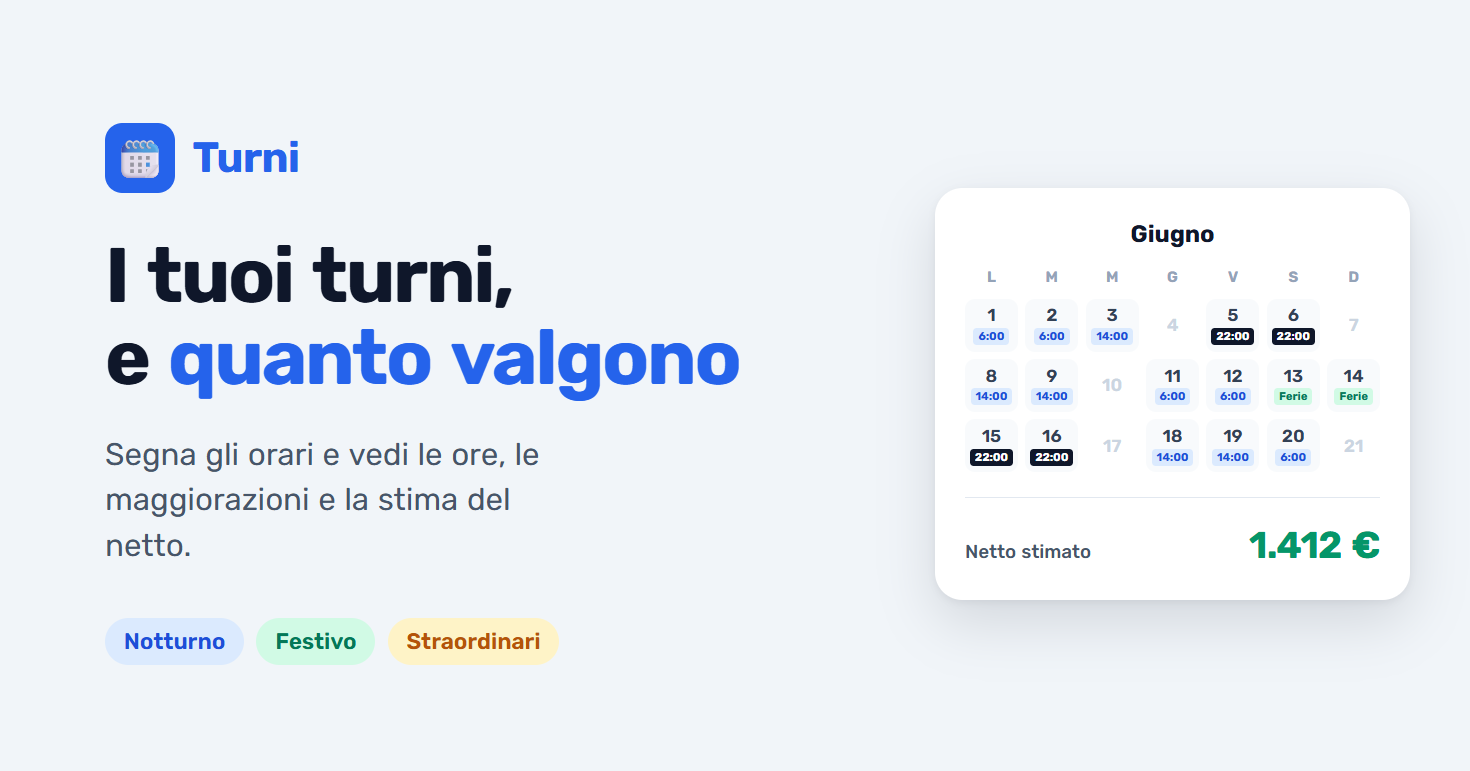
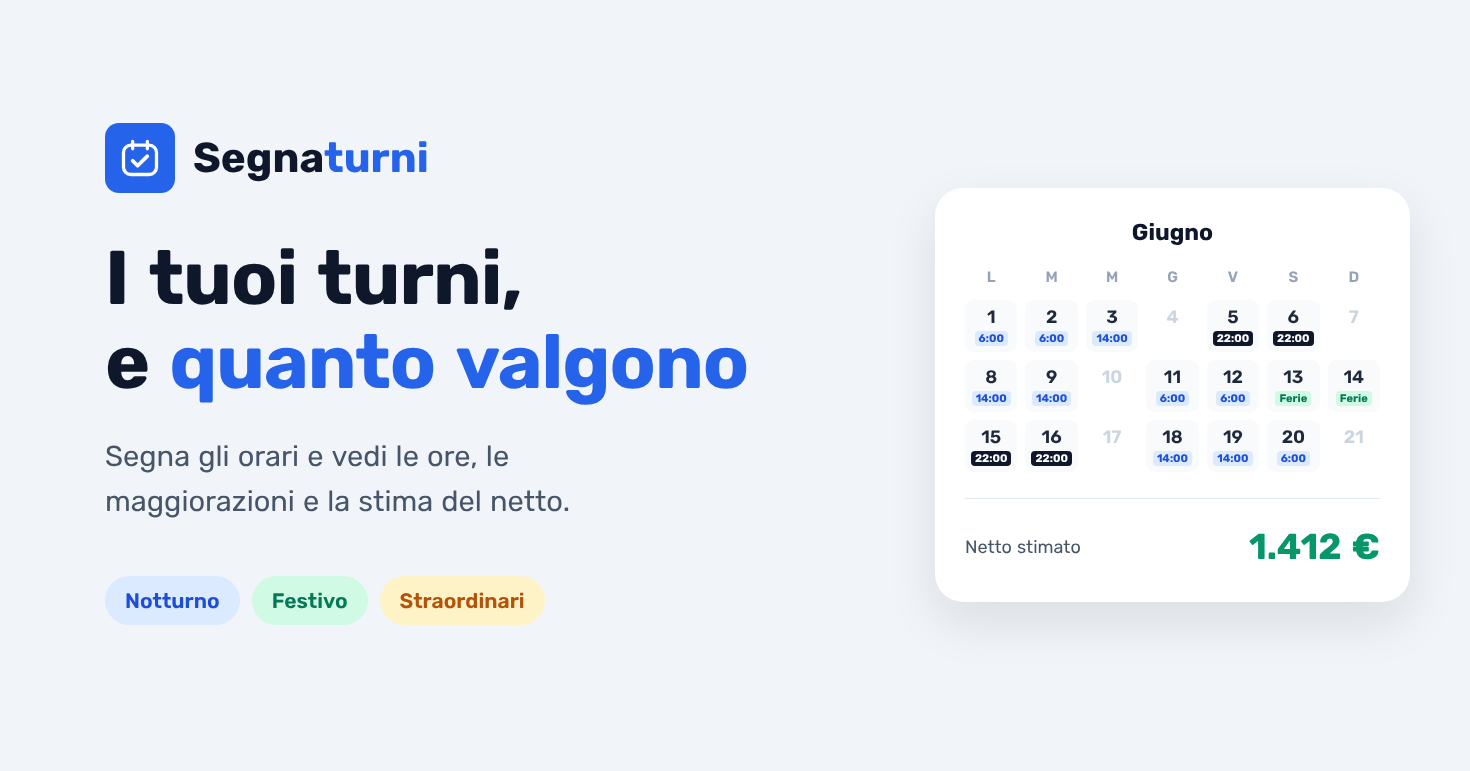
Il nome pubblico diventa Segnaturni
Cambia tutto ciò che si legge: titolo e manifest (nome e nome breve
dell'icona), barra in alto, invito a installare, avviso di aggiornamento,
testo condiviso della settimana, messaggi del ripristino del backup, testo
di «Confronta con la busta», informativa e termini (rigenerati dai .md),
la vetrina /benvenuto e l'immagine d'anteprima dei link, rifatta alla
stessa misura. «Turni» resta dove è la parola (turni di lavoro) e nel
codice: repository, identificatori e chiavi del localStorage (turni_…),
che cambiate farebbero perdere i dati a chi usa già l'app.

Claude-Session: https://claude.ai/code/session_01BrKz16xDWUAVbTbnAUnyoZ

diff --git a/public/privacy/index.html b/public/privacy/index.html
@@ -3,7 +3,7 @@
 <head>
 <meta charset="utf-8">
 <meta name="viewport" content="width=device-width, initial-scale=1">
-<title>Informativa sulla privacy — Turni</title>
+<title>Informativa sulla privacy — Segnaturni</title>
 <meta name="description" content="Quali dati escono dal tuo dispositivo usando Turni, dove vanno e perche.">
 <style>
   :root { color-scheme: light dark; --testo:#1f2933; --sfondo:#fff; --tenue:#5b6570;
@@ -37,40 +37,40 @@
 </head>
 <body>
 <main>
-<a class="torna" href="/">← Torna a Turni</a>
-<h1>Informativa sulla privacy — Turni</h1>
+<a class="torna" href="/">← Torna a Segnaturni</a>
+<h1>Informativa sulla privacy — Segnaturni</h1>
 <p><strong>Ultimo aggiornamento:</strong> 19 ottobre 2026</p>
-<p>Turni serve a tenere traccia dei propri turni di lavoro e a stimare quanto si guadagna. Questa informativa dice quali dati escono dal tuo dispositivo, dove vanno e perché. È scritta per essere letta, non per essere firmata: non c'è niente da accettare.</p>
+<p>Segnaturni serve a tenere traccia dei propri turni di lavoro e a stimare quanto si guadagna. Questa informativa dice quali dati escono dal tuo dispositivo, dove vanno e perché. È scritta per essere letta, non per essere firmata: non c'è niente da accettare.</p>
 <p>Vale per il sito turni-9vr.pages.dev e per il sito di prova, anche quando li installi come app. Le condizioni d'uso sono in una pagina a parte: <a href="/termini/" rel="noopener">Termini d'uso</a>.</p>
 <h2>In breve</h2>
 <p><strong>I tuoi turni non stanno su nessun server.</strong> Non c'è un account da creare, non c'è una sincronizzazione, e chi sviluppa l'app non può vedere i tuoi dati nemmeno volendo.</p>
 <p>Dal dispositivo escono solo i dati tecnici che servono a qualunque sito per essere aperto (l'indirizzo IP, il tipo di browser) e un conteggio anonimo delle visite. Turni, orari, paga, contratto, calcoli e le immagini dei tabelloni restano dove li hai messi.</p>
 <h2>Chi è il titolare</h2>
-<p>Il titolare del trattamento è <strong>Alessandro Torreggiani</strong>, che sviluppa e pubblica Turni a titolo personale e gratuito. Contatto: <strong>g.asriel@gmail.com</strong>.</p>
+<p>Il titolare del trattamento è <strong>Alessandro Torreggiani</strong>, che sviluppa e pubblica Segnaturni a titolo personale e gratuito. Contatto: <strong>g.asriel@gmail.com</strong>.</p>
 <h2>Dati che restano sul tuo dispositivo</h2>
 <p>Turni, orari, paga oraria, dati del contratto e tutto ciò che serve alla stima del netto sono salvati <strong>solo nella memoria locale del browser o dell'app</strong>. Il titolare non li riceve e non li tratta.</p>
 <p>Questo ha un rovescio che è giusto conoscere: se cancelli i dati del sito, disinstalli l'app, o svuoti la memoria del browser, <strong>i tuoi turni spariscono e non sono recuperabili da nessuna parte</strong>. Non esiste una copia altrove. Per questo c'è la funzione di backup in Impostazioni: il file che produce resta a te, non viene inviato da nessuna parte.</p>
 <h2>Turni letti da un'immagine</h2>
-<p>L'immagine del tabellone che scegli o condividi con Turni <strong>si legge sul telefono</strong>: non viene inviata a nessun servizio. Il programma che la legge si scarica la prima volta che usi la funzione, dal sito di Turni stesso e non da servizi esterni, e resta nella memoria del telefono.</p>
-<p>Se il tabellone contiene i nomi dei colleghi, Turni li legge sul telefono solo per mostrarti l'elenco da cui scegliere il tuo, poi legge soltanto la tua riga. L'immagine non viene conservata: un'immagine condivisa con l'app viene cancellata appena letta.</p>
+<p>L'immagine del tabellone che scegli o condividi con Segnaturni <strong>si legge sul telefono</strong>: non viene inviata a nessun servizio. Il programma che la legge si scarica la prima volta che usi la funzione, dal sito di Segnaturni stesso e non da servizi esterni, e resta nella memoria del telefono.</p>
+<p>Se il tabellone contiene i nomi dei colleghi, Segnaturni li legge sul telefono solo per mostrarti l'elenco da cui scegliere il tuo, poi legge soltanto la tua riga. L'immagine non viene conservata: un'immagine condivisa con l'app viene cancellata appena letta.</p>
 <h2>Lettura con l'intelligenza artificiale (spenta)</h2>
-<p>Nel codice di Turni esiste anche una lettura delle foto con Google Gemini, che manda la foto e il nome da cercare a un servizio esterno. <strong>Oggi è spenta.</strong> Se dovesse tornare attiva, questa informativa verrà aggiornata prima, e la prima volta che la usi un avviso ti dirà, prima dell'invio, che la foto esce dall'Unione Europea, che sul piano gratuito Google può usarla per migliorare i suoi servizi, e che con la foto partono anche i nomi dei colleghi scritti sul foglio.</p>
+<p>Nel codice di Segnaturni esiste anche una lettura delle foto con Google Gemini, che manda la foto e il nome da cercare a un servizio esterno. <strong>Oggi è spenta.</strong> Se dovesse tornare attiva, questa informativa verrà aggiornata prima, e la prima volta che la usi un avviso ti dirà, prima dell'invio, che la foto esce dall'Unione Europea, che sul piano gratuito Google può usarla per migliorare i suoi servizi, e che con la foto partono anche i nomi dei colleghi scritti sul foglio.</p>
 <h2>Servizi coinvolti</h2>
 <div class="tabella"><table><thead><tr><th>Chi</th><th>Perché</th><th>Cosa vede</th><th>Base giuridica</th></tr></thead><tbody><tr><td><strong>Cloudflare</strong> (Pages)</td><td>ospita il sito e lo protegge dagli abusi</td><td>l'indirizzo IP e i dati tecnici della richiesta, come per qualunque sito</td><td>legittimo interesse a far funzionare il sito in sicurezza (art. 6.1.f GDPR)</td></tr><tr><td><strong>Cloudflare Web Analytics</strong></td><td>conteggio delle visite</td><td>pagina visitata e dati aggregati, <strong>senza cookie e senza profilazione</strong></td><td>legittimo interesse a sapere se il sito viene usato (art. 6.1.f GDPR)</td></tr></tbody></table></div>
 <p>Cloudflare tratta questi dati per conto del titolare, secondo le sue condizioni: <a href="https://www.cloudflare.com/privacypolicy/" rel="noopener">https://www.cloudflare.com/privacypolicy/</a></p>
 <h2>Cookie e memoria del browser</h2>
-<p>Turni <strong>non usa cookie</strong>, né di profilazione né pubblicitari. Usa soltanto la memoria locale del browser (dove stanno i tuoi dati) e la cache dell'app (che la fa funzionare anche senza rete). Sono strumenti tecnici strettamente necessari, per i quali la legge non chiede consenso (art. 122 del Codice privacy): per questo non c'è nessun banner.</p>
+<p>Segnaturni <strong>non usa cookie</strong>, né di profilazione né pubblicitari. Usa soltanto la memoria locale del browser (dove stanno i tuoi dati) e la cache dell'app (che la fa funzionare anche senza rete). Sono strumenti tecnici strettamente necessari, per i quali la legge non chiede consenso (art. 122 del Codice privacy): per questo non c'è nessun banner.</p>
 <h2>Statistiche d'uso</h2>
 <p><strong>Non ne viene raccolta nessuna.</strong> Non c'è un contatore di quante volte usi una funzione, né un identificativo della tua installazione. Il codice che lo faceva nelle versioni di prova è stato tolto il 12 ottobre 2026.</p>
 <h2>Verificalo da solo</h2>
-<p>Non serve fidarsi di quello che scriviamo. Il tuo browser riceve da Turni una regola che dice <strong>a quali indirizzi la pagina può mandare dati</strong>, e la fa rispettare lui: un invio verso un indirizzo che non è in lista viene bloccato, qualunque cosa faccia il codice.</p>
+<p>Non serve fidarsi di quello che scriviamo. Il tuo browser riceve da Segnaturni una regola che dice <strong>a quali indirizzi la pagina può mandare dati</strong>, e la fa rispettare lui: un invio verso un indirizzo che non è in lista viene bloccato, qualunque cosa faccia il codice.</p>
 <h3>Il controllo rapido, da qui</h3>
 <p>Apri il <a href="https://securityheaders.com/?q=turni-9vr.pages.dev&amp;followRedirects=on" rel="noopener">controllo indipendente su securityheaders.com</a>: non è un sito nostro, legge le regole da fuori. Nella pagina che si apre cerca la riga <code>connect-src</code> dentro <code>Content-Security-Policy</code>. Gli indirizzi elencati lì sono tutti e soli quelli possibili:</p>
 <div class="tabella"><table><thead><tr><th>Indirizzo</th><th>A cosa serve</th></tr></thead><tbody><tr><td><code>'self'</code></td><td>il sito stesso: gli aggiornamenti dell'app</td></tr><tr><td><code>cloudflareinsights.com</code></td><td>il conteggio delle visite, senza cookie: nessun turno, nessuna cifra</td></tr></tbody></table></div>
 <p>Cosa prova e cosa no: dice dove i dati <strong>possono</strong> andare. Che al contatore visite non arrivino i tuoi turni lo dice il codice dell'app.</p>
 <h3>La prova completa, su Android</h3>
 <p>Per vedere coi tuoi occhi ogni collegamento c'è <strong>PCAPdroid</strong>, un'app gratuita e open source (F-Droid, Play Store); non serve il root.</p>
-<ul><li>Installala e premi <strong>Avvia</strong>, scegliendo il browser che usi per Turni.</li><li>Apri Turni e usalo: segna un turno, guarda il netto, esporta il mese.</li><li>Torna su PCAPdroid, scheda <strong>Connessioni</strong>: trovi solo gli indirizzi della tabella qui sopra.</li></ul>
+<ul><li>Installala e premi <strong>Avvia</strong>, scegliendo il browser che usi per Segnaturni.</li><li>Apri Segnaturni e usalo: segna un turno, guarda il netto, esporta il mese.</li><li>Torna su PCAPdroid, scheda <strong>Connessioni</strong>: trovi solo gli indirizzi della tabella qui sopra.</li></ul>
 <p>Il browser mostra anche le connessioni delle altre schede aperte: chiudile prima di provare.</p>
 <p>Per chi sviluppa: lo stesso elenco è tenuto fermo da <code>scripts/check-dati-in-uscita.mjs</code>, che fa fallire la pubblicazione se qualcuno lo allarga.</p>
 <h2>Dati che non vengono raccolti</h2>

diff --git a/public/termini/index.html b/public/termini/index.html
@@ -3,7 +3,7 @@
 <head>
 <meta charset="utf-8">
 <meta name="viewport" content="width=device-width, initial-scale=1">
-<title>Termini d'uso — Turni</title>
+<title>Termini d'uso — Segnaturni</title>
 <meta name="description" content="Cos'e Turni, cosa aspettarsi dalle sue stime e cosa no.">
 <style>
   :root { color-scheme: light dark; --testo:#1f2933; --sfondo:#fff; --tenue:#5b6570;
@@ -37,23 +37,23 @@
 </head>
 <body>
 <main>
-<a class="torna" href="/">← Torna a Turni</a>
-<h1>Termini d'uso — Turni</h1>
+<a class="torna" href="/">← Torna a Segnaturni</a>
+<h1>Termini d'uso — Segnaturni</h1>
 <p><strong>Ultimo aggiornamento:</strong> 19 ottobre 2026</p>
-<p>Questi termini dicono cos'è Turni, cosa puoi aspettarti e cosa no. Non c'è niente da firmare né da accettare con un clic: valgono per chi usa l'app, e sono scritti per essere letti.</p>
-<h2>Cos'è Turni</h2>
-<p>Turni è un'app gratuita per segnare i propri turni di lavoro e stimare quanto si guadagna: ore, maggiorazioni, lordo e netto secondo le regole della busta paga italiana. La sviluppa e la pubblica <strong>Alessandro Torreggiani</strong>, a titolo personale e senza scopo di lucro. Contatto: <strong>g.asriel@gmail.com</strong>.</p>
+<p>Questi termini dicono cos'è Segnaturni, cosa puoi aspettarti e cosa no. Non c'è niente da firmare né da accettare con un clic: valgono per chi usa l'app, e sono scritti per essere letti.</p>
+<h2>Cos'è Segnaturni</h2>
+<p>Segnaturni è un'app gratuita per segnare i propri turni di lavoro e stimare quanto si guadagna: ore, maggiorazioni, lordo e netto secondo le regole della busta paga italiana. La sviluppa e la pubblica <strong>Alessandro Torreggiani</strong>, a titolo personale e senza scopo di lucro. Contatto: <strong>g.asriel@gmail.com</strong>.</p>
 <p>È in <strong>versione di prova (beta)</strong>: viene offerta così com'è, può contenere errori e può cambiare, fermarsi o non essere disponibile senza preavviso.</p>
 <h2>Le cifre sono stime</h2>
 <p>Ore, maggiorazioni, lordo, netto, trattamento integrativo, conguaglio e ogni altra cifra che l'app mostra sono <strong>stime indicative</strong>, calcolate dai dati che inserisci tu e da regole contrattuali e fiscali che l'app conosce in modo parziale. Possono essere diverse dalla tua busta paga, ad esempio perché:</p>
 <ul><li>un turno o un'impostazione è stato inserito in modo diverso dalla realtà;</li><li>il tuo contratto, il tuo datore o il suo programma paghe applicano regole che l'app non conosce;</li><li>le norme cambiano, o l'app contiene un errore.</li></ul>
-<p>Turni <strong>non è una consulenza</strong> del lavoro, fiscale o legale, e non sostituisce la busta paga, la Certificazione Unica né un professionista (consulente del lavoro, CAF, sindacato). Prima di contestare qualcosa al datore di lavoro o di prendere decisioni che contano, fai verificare i conti a chi è abilitato a farlo.</p>
+<p>Segnaturni <strong>non è una consulenza</strong> del lavoro, fiscale o legale, e non sostituisce la busta paga, la Certificazione Unica né un professionista (consulente del lavoro, CAF, sindacato). Prima di contestare qualcosa al datore di lavoro o di prendere decisioni che contano, fai verificare i conti a chi è abilitato a farlo.</p>
 <h2>I tuoi dati sono tuoi</h2>
-<p>Turni salva tutto <strong>solo sul tuo dispositivo</strong>, come spiega <a href="/privacy/" rel="noopener">l'informativa sulla privacy</a>. La conseguenza è che conservarli è compito tuo: se cancelli i dati del sito, disinstalli l'app o perdi il telefono, i turni non si recuperano. Per questo c'è il backup in Impostazioni.</p>
+<p>Segnaturni salva tutto <strong>solo sul tuo dispositivo</strong>, come spiega <a href="/privacy/" rel="noopener">l'informativa sulla privacy</a>. La conseguenza è che conservarli è compito tuo: se cancelli i dati del sito, disinstalli l'app o perdi il telefono, i turni non si recuperano. Per questo c'è il backup in Impostazioni.</p>
 <h2>Uso personale</h2>
-<p>Turni serve a segnare <strong>i tuoi</strong> turni. Se leggi un tabellone con i nomi dei colleghi, l'app lo legge sul telefono e ne tiene solo la tua riga; non usarla per raccogliere o diffondere i dati degli altri.</p>
+<p>Segnaturni serve a segnare <strong>i tuoi</strong> turni. Se leggi un tabellone con i nomi dei colleghi, l'app lo legge sul telefono e ne tiene solo la tua riga; non usarla per raccogliere o diffondere i dati degli altri.</p>
 <h2>Responsabilità</h2>
-<p>Nei limiti consentiti dalla legge, chi sviluppa Turni non risponde delle conseguenze di decisioni prese sulla base delle stime dell'app, né della perdita di dati salvati sul dispositivo. Restano in ogni caso salvi la responsabilità per dolo o colpa grave e i diritti che la legge riconosce ai consumatori, che questi termini non limitano.</p>
+<p>Nei limiti consentiti dalla legge, chi sviluppa Segnaturni non risponde delle conseguenze di decisioni prese sulla base delle stime dell'app, né della perdita di dati salvati sul dispositivo. Restano in ogni caso salvi la responsabilità per dolo o colpa grave e i diritti che la legge riconosce ai consumatori, che questi termini non limitano.</p>
 <h2>Modifiche</h2>
 <p>I termini possono cambiare insieme all'app. Le modifiche vengono pubblicate a questo stesso indirizzo, con la data di aggiornamento in cima.</p>
 <h2>Legge applicabile</h2>

diff --git a/public/benvenuto/index.html b/public/benvenuto/index.html
@@ -4,7 +4,7 @@
      script nostro, frasi.js, che fa girare la prima riga del titolo. «Mi interessa» porta a /benvenuto/grazie/, che il contatore
      visite conta come pagina: è tutta la misura dell'interesse, senza un dato
      in più. Lo screenshot è l'app vera, con turni inventati. -->
-<title>Turni — quanto hai guadagnato questo mese</title>
+<title>Segnaturni — quanto hai guadagnato questo mese</title>
 <meta name="description" content="Segni i turni e vedi quanto hai guadagnato, lordo e netto. Nessun account, nessun server: i dati restano sul tuo telefono.">
 <meta name="robots" content="noindex">
 <script src="/benvenuto/frasi.js"></script>
@@ -105,13 +105,13 @@ footer .w{display:flex;justify-content:space-between;gap:16px;flex-wrap:wrap}
 
 <div class="testa">
 <header><div class="w">
-  <a class="marchio" href="/benvenuto/"><svg width="26" height="26" viewBox="0 0 24 24" aria-hidden="true"><rect x="2" y="4" width="20" height="18" rx="5" fill="#2c5fe8"/><path d="M7 2.5v4M17 2.5v4" stroke="#2c5fe8" stroke-width="1.8" stroke-linecap="round"/><path d="M7.5 13.5l3 3 6-6" fill="none" stroke="#fff" stroke-width="2" stroke-linecap="round" stroke-linejoin="round"/></svg>Turni</a>
+  <a class="marchio" href="/benvenuto/"><svg width="26" height="26" viewBox="0 0 24 24" aria-hidden="true"><rect x="2" y="4" width="20" height="18" rx="5" fill="#2c5fe8"/><path d="M7 2.5v4M17 2.5v4" stroke="#2c5fe8" stroke-width="1.8" stroke-linecap="round"/><path d="M7.5 13.5l3 3 6-6" fill="none" stroke="#fff" stroke-width="2" stroke-linecap="round" stroke-linejoin="round"/></svg><span>Segna<b style="color:#2c5fe8;font-weight:800">turni</b></span></a>
   <a class="app" href="/">Apri l'app →</a>
 </div></header>
 <div class="apertura"><div class="w">
   <div>
     <h1><span class="frase" data-frase>Sei ore di domenica.</span>Quanto ti entra in busta?</h1>
-    <p>Segni il turno e lo sai subito: supplementari, domeniche, festivi, notturno, fino al netto. Turni fa i conti come la tua busta paga, e tutto resta sul tuo telefono.</p>
+    <p>Segni il turno e lo sai subito: supplementari, domeniche, festivi, notturno, fino al netto. Segnaturni fa i conti come la tua busta paga, e tutto resta sul tuo telefono.</p>
     <a class="btn" href="/">Apri l'app, è gratis</a>
     <div class="punti">
       <span><svg width="18" height="18" viewBox="0 0 24 24" aria-hidden="true"><rect x="5" y="10" width="14" height="10" rx="2.5" fill="none" stroke="currentColor" stroke-width="2"/><path d="M8 10V7.5a4 4 0 018 0V10" fill="none" stroke="currentColor" stroke-width="2"/></svg>Nessun account</span>
@@ -119,14 +119,14 @@ footer .w{display:flex;justify-content:space-between;gap:16px;flex-wrap:wrap}
       <span><svg width="18" height="18" viewBox="0 0 24 24" aria-hidden="true"><circle cx="12" cy="12" r="9" fill="none" stroke="currentColor" stroke-width="2"/><path d="M8 12.5l2.7 2.7L16 10" fill="none" stroke="currentColor" stroke-width="2" stroke-linecap="round" stroke-linejoin="round"/></svg>Gratis</span>
     </div>
   </div>
-  <div class="telefono"><img src="/benvenuto/calendario.jpg" width="780" height="1600" alt="Il calendario di Turni a novembre: i turni del mese e in alto il lordo stimato, 1.400,22 €"></div>
+  <div class="telefono"><img src="/benvenuto/calendario.jpg" width="780" height="1600" alt="Il calendario di Segnaturni a novembre: i turni del mese e in alto il lordo stimato, 1.400,22 €"></div>
 </div></div>
 </div>
 
 <section class="priv"><div class="w">
   <div>
     <h2>I tuoi turni non escono dal telefono.</h2>
-    <p class="sub">Turni non ha un database dove finiscono i tuoi dati: i conti si fanno sul telefono, e lì restano. Chi sa usare gli strumenti del browser può controllarlo: segnando un turno non parte niente.</p>
+    <p class="sub">Segnaturni non ha un database dove finiscono i tuoi dati: i conti si fanno sul telefono, e lì restano. Chi sa usare gli strumenti del browser può controllarlo: segnando un turno non parte niente.</p>
   </div>
   <div class="voci">
     <div class="voce"><svg width="26" height="26" viewBox="0 0 24 24" aria-hidden="true"><circle cx="12" cy="8.5" r="3.5" fill="none" stroke="#2c5fe8" stroke-width="2"/><path d="M5 20c1-3.5 3.8-5 7-5s6 1.5 7 5" fill="none" stroke="#2c5fe8" stroke-width="2" stroke-linecap="round"/><path d="M3.5 3.5l17 17" stroke="#2c5fe8" stroke-width="2" stroke-linecap="round"/></svg><div><b>Nessun account</b><span>Né email né password. Apri e usi.</span></div></div>
@@ -173,7 +173,7 @@ footer .w{display:flex;justify-content:space-between;gap:16px;flex-wrap:wrap}
 </div></section>
 
 <footer><div class="w">
-  <div>Turni · gratuito, senza scopo di lucro. Stime beta: fatti controllare da un professionista.</div>
+  <div>Segnaturni · gratuito, senza scopo di lucro. Stime beta: fatti controllare da un professionista.</div>
   <div><a href="/privacy/">Informativa</a> · <a href="/termini/">Termini</a></div>
 </div></footer>
 

diff --git a/index.html b/index.html
@@ -3,8 +3,8 @@
   <head>
     <meta charset="UTF-8" />
     <meta name="viewport" content="width=device-width, initial-scale=1.0, viewport-fit=cover" />
-    <title>Turni</title>
-    <meta name="description" content="Turni di lavoro: calendario, ore e stima dello stipendio netto." />
+    <title>Segnaturni</title>
+    <meta name="description" content="Segnaturni: segni i turni di lavoro e vedi ore, lordo e stima dello stipendio netto." />
     <meta name="theme-color" content="#2563eb" />
 
     <!-- Anteprima del link su WhatsApp, Telegram e simili. Senza, un link
@@ -22,8 +22,8 @@
          in un file che viene distribuito su più ambienti è sempre sbagliato in
          tutti tranne uno. -->
     <meta property="og:type" content="website" />
-    <meta property="og:site_name" content="Turni" />
-    <meta property="og:title" content="Turni — calendario e stipendio netto" />
+    <meta property="og:site_name" content="Segnaturni" />
+    <meta property="og:title" content="Segnaturni — calendario dei turni e stipendio netto" />
     <meta property="og:description" content="Segna i turni, conta le ore e stima lo stipendio netto: maggiorazioni notturne, festive e domenicali comprese." />
     <meta property="og:image" content="__SITE_URL__/og-image.png" />
     <!-- `secure_url` e `type` non sono decorazioni: alcuni client li pretendono
@@ -33,7 +33,7 @@
     <meta property="og:image:type" content="image/png" />
     <meta property="og:image:width" content="1470" />
     <meta property="og:image:height" content="771" />
-    <meta property="og:image:alt" content="Turni — calendario dei turni e stima dello stipendio netto" />
+    <meta property="og:image:alt" content="Segnaturni — calendario dei turni e stima dello stipendio netto" />
     <meta property="og:url" content="__SITE_URL__" />
     <meta property="og:locale" content="it_IT" />
     <meta name="twitter:card" content="summary_large_image" />
@@ -43,7 +43,7 @@
     <link rel="apple-touch-icon" href="/apple-touch-icon.png" />
     <meta name="apple-mobile-web-app-capable" content="yes" />
     <meta name="apple-mobile-web-app-status-bar-style" content="default" />
-    <meta name="apple-mobile-web-app-title" content="Turni" />
+    <meta name="apple-mobile-web-app-title" content="Segnaturni" />
   </head>
   <body>
     <div id="root"></div>

diff --git a/src/components/InstallPrompt.jsx b/src/components/InstallPrompt.jsx
@@ -81,7 +81,7 @@ export default function InstallPrompt({ installaIOS = false, sospeso = false, on
       <div className="install-banner install-banner--ios" role="status">
         <img className="install-banner-icon" src="/pwa-192x192.png" alt="" width="40" height="40" />
         <div className="install-banner-text">
-          <strong>Aggiungi Turni alla Home</strong>
+          <strong>Aggiungi Segnaturni alla Home</strong>
           <span>
             Su iPhone, se resta solo in Safari, dopo 7 giorni senza aprirla Safari può
             cancellare i tuoi turni. Tocca <span aria-label="Condividi">Condividi ⬆</span>
@@ -124,7 +124,7 @@ export default function InstallPrompt({ installaIOS = false, sospeso = false, on
     <div className="install-banner">
       <img className="install-banner-icon" src="/pwa-192x192.png" alt="" width="40" height="40" />
       <div className="install-banner-text">
-        <strong>Installa Turni</strong>
+        <strong>Installa Segnaturni</strong>
         {firefoxHint ? (
           <span>Tocca il menu ⋮ in alto e poi «Aggiungi a schermata Home» (o «Installa»).</span>
         ) : firefoxDesktopHint ? (

diff --git a/vite.config.js b/vite.config.js
@@ -82,9 +82,9 @@ export default defineConfig({
       },
       includeAssets: ['favicon.svg', 'apple-touch-icon.png'],
       manifest: {
-        name: 'Turni',
-        short_name: 'Turni',
-        description: 'Turni di lavoro: calendario, ore e stima dello stipendio netto.',
+        name: 'Segnaturni',
+        short_name: 'Segnaturni',
+        description: 'Segni i turni di lavoro e vedi ore, lordo e stima dello stipendio netto.',
         lang: 'it',
         theme_color: '#2563eb',
         background_color: '#f1f5f9',
@@ -107,7 +107,7 @@ export default defineConfig({
         // Apre il modulo, NON salva niente: un turno scritto senza che nessuno
         // lo veda è un dato che tocca i soldi senza uno sguardo.
         //
-        // «Condividi → Turni» da WhatsApp, Galleria, Lens: testo o immagine
+        // «Condividi → Segnaturni» da WhatsApp, Galleria, Lens: testo o immagine
         // arrivano a «Incolla turni» (ImportTesto.jsx) e si leggono sul
         // telefono. POST perché un'immagine in un indirizzo non ci sta: la
         // riceve public/condividi-sw.js. Solo Android con l'app installata;

diff --git a/src/utils/backup-contenuto.js b/src/utils/backup-contenuto.js
@@ -119,7 +119,7 @@ export function controllaBusta(dati) {
     return 'Il file non contiene un backup valido.';
   }
   if (dati.app !== APP_TAG) {
-    return 'Questo file non è un backup di Turni.';
+    return 'Questo file non è un backup di Segnaturni.';
   }
   // `undefined > 1` è false: senza questa riga un file senza `formato` passava
   // e veniva letto come formato 1.
@@ -127,7 +127,7 @@ export function controllaBusta(dati) {
     return 'Il backup è danneggiato: manca il numero di formato.';
   }
   if (dati.formato > FORMATO) {
-    return `Backup creato da una versione più recente dell'app (formato ${dati.formato}). Aggiorna Turni e riprova.`;
+    return `Backup creato da una versione più recente dell'app (formato ${dati.formato}). Aggiorna Segnaturni e riprova.`;
   }
   if (typeof dati.turni !== 'object' || dati.turni === null || Array.isArray(dati.turni)) {
     return 'Il backup è danneggiato: manca l\'elenco dei turni.';

diff --git a/src/utils/verifica-busta.js b/src/utils/verifica-busta.js
@@ -354,7 +354,7 @@ export function scartoScritto(r) {
  */
 export function testoDaCondividere(esito, { versione = '', settings = {}, partTimePct = null } = {}) {
   const intestazione = [
-    `Turni ${versione}`.trim(),
+    `Segnaturni ${versione}`.trim(),
     esito.periodo ? `verifica busta ${MESI[esito.periodo.mese]} ${esito.periodo.anno}` : 'verifica busta',
     getContratto(settings.ccnl)?.label ? `CCNL ${getContratto(settings.ccnl).label}` : null,
     partTimePct ? `part-time ${String(partTimePct).replace('.', ',')}%` : null,

diff --git a/src/components/AvvisoAggiornamento.jsx b/src/components/AvvisoAggiornamento.jsx
@@ -14,7 +14,7 @@
 export default function AvvisoAggiornamento({ onAggiorna, onChiudi }) {
   return (
     <div className="avviso-agg" role="status" aria-live="polite">
-      <span className="avviso-agg-testo">C'è una versione nuova di Turni.</span>
+      <span className="avviso-agg-testo">C'è una versione nuova di Segnaturni.</span>
       <div className="avviso-agg-azioni">
         <button type="button" className="btn btn-primary" onClick={onAggiorna}>
           Aggiorna

diff --git a/src/components/ShareWeekModal.jsx b/src/components/ShareWeekModal.jsx
@@ -102,7 +102,7 @@ export default function ShareWeekModal({
     // Una riga, staccata dai turni, senza inviti: chi la riceve è un collega
     // con lo stesso tabellone, ed è lì che l'app si fa conoscere. Sempre la
     // produzione, anche dal sito di prova: il link lo apre un altro.
-    lines.push('', 'Segnati con Turni · turni-9vr.pages.dev');
+    lines.push('', 'Segnati con Segnaturni · turni-9vr.pages.dev');
     return lines.join('\n');
   }, [weekData]);
 

diff --git a/public/benvenuto/grazie/index.html b/public/benvenuto/grazie/index.html
@@ -1,6 +1,6 @@
 <!doctype html>
 <html lang="it"><head><meta charset="utf-8"><meta name="viewport" content="width=device-width,initial-scale=1">
-<title>Grazie — Turni</title><meta name="robots" content="noindex">
+<title>Grazie — Segnaturni</title><meta name="robots" content="noindex">
 <!-- Ogni visita qui è un «Mi interessa»: la conta il contatore visite, e basta. -->
 <style>
 *{box-sizing:border-box}html,body{margin:0;height:100%}

diff --git a/src/components/NavBar.jsx b/src/components/NavBar.jsx
@@ -6,7 +6,7 @@ export default function NavBar({ view, onNavigate }) {
     <nav className="navbar">
       <div className="navbar-brand">
         <span className="navbar-icon"><Icona nome="orologio" /></span>
-        <span className="navbar-title">Turni</span>
+        <span className="navbar-title">Segnaturni</span>
       </div>
       <div className="navbar-links">
         <button
